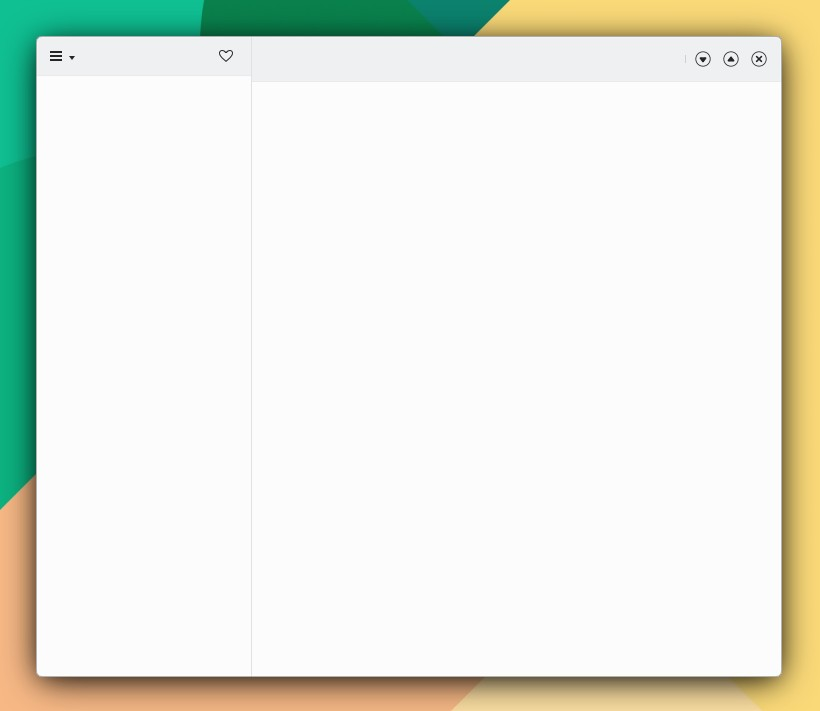
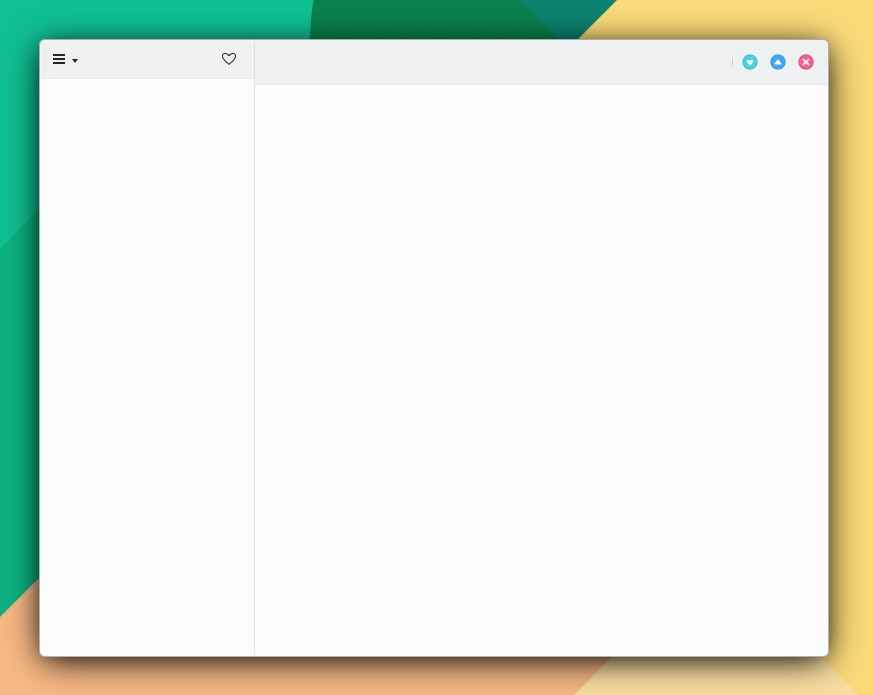
GITBOOK-268: change request with no subject merged in GitBook

Changed region(s): [[0.0305, 0.0, 1.0, 1.0], [0.0, 0.6647, 0.061, 0.8763]]

diff --git a/mauikit/documentacion-util/colores.md b/mauikit/documentacion-util/colores.md
@@ -69,10 +69,17 @@ Maui.ApplicationWindow
         }
     }
 }
-
 ```
 
 <figure><img src="../../.gitbook/assets/Util-Colores.jpg" alt=""><figcaption></figcaption></figure>
+
+Si establecemos:
+
+```
+Maui.Theme.colorSet: Maui.Theme.Window
+```
+
+<figure><img src="../../.gitbook/assets/Util-Colores-1.jpg" alt=""><figcaption></figcaption></figure>
 
 ## Colores del sistema
 
